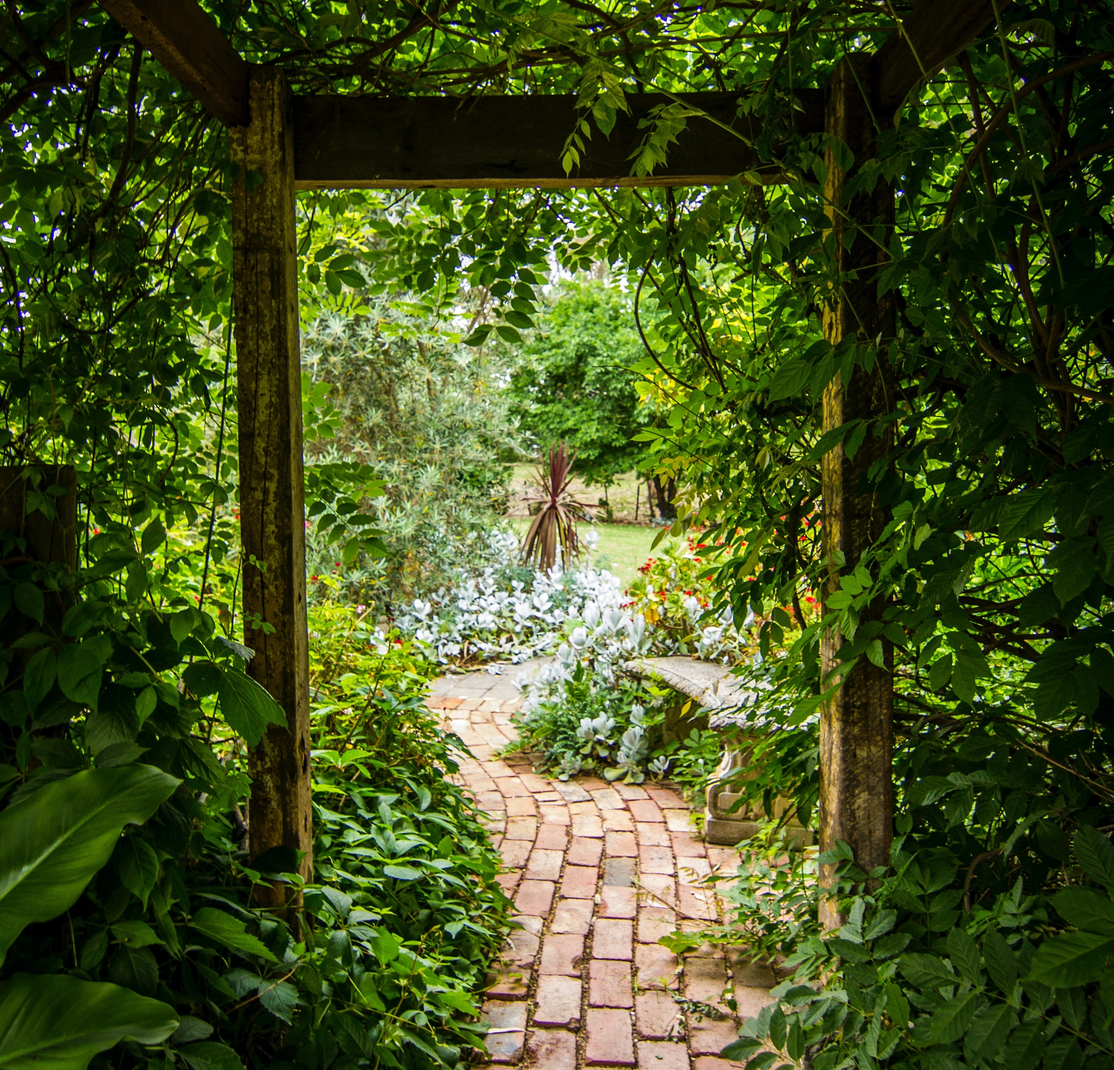
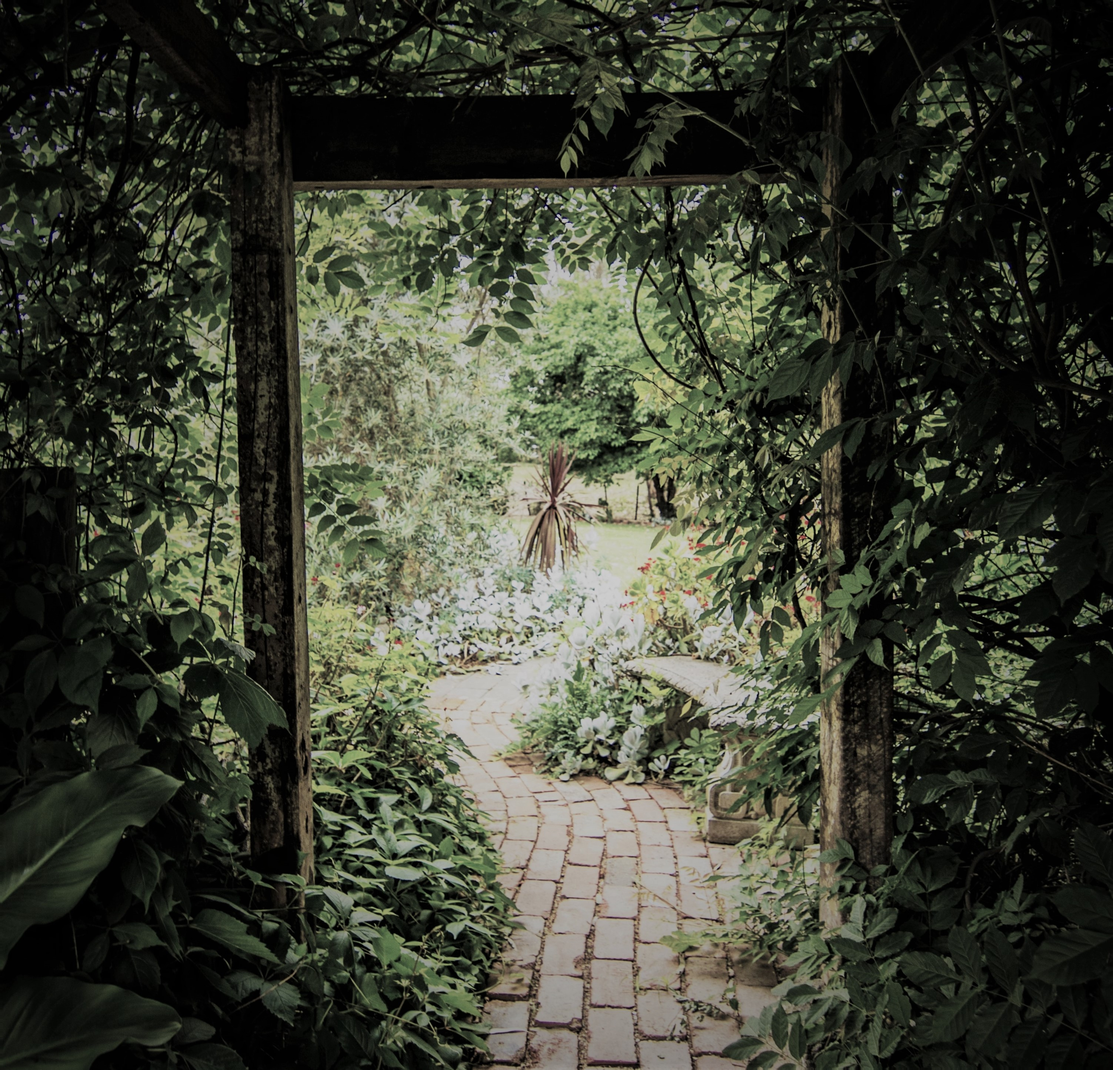
Worked on the mobile view for the site

diff --git a/index.html b/index.html
@@ -6,12 +6,18 @@
     <meta name="viewport" content="width=device-width, initial-scale=1.0" />
     <title>Elite landscaping & Fumigation</title>
     <!-- Linking our font awesome cdn -->
-    <link rel="stylesheet" href="https://cdnjs.cloudflare.com/ajax/libs/font-awesome/6.4.0/css/all.min.css" integrity="sha512-iecdLmaskl7CVkqkXNQ/ZH/XLlvWZOJyj7Yy7tcenmpD1ypASozpmT/E0iPtmFIB46ZmdtAc9eNBvH0H/ZpiBw==" crossorigin="anonymous" referrerpolicy="no-referrer" />
+    <link
+      rel="stylesheet"
+      href="https://cdnjs.cloudflare.com/ajax/libs/font-awesome/6.4.0/css/all.min.css"
+      integrity="sha512-iecdLmaskl7CVkqkXNQ/ZH/XLlvWZOJyj7Yy7tcenmpD1ypASozpmT/E0iPtmFIB46ZmdtAc9eNBvH0H/ZpiBw=="
+      crossorigin="anonymous"
+      referrerpolicy="no-referrer"
+    />
     <!-- Favicon -->
-    <link rel="icon" href="./public/park.png" type="png/image">
+    <link rel="icon" href="./public/park.png" type="png/image" />
     <!-- Linking Our Style sheets -->
-    <link rel="stylesheet" href="css/normalize.css">
-    <link rel="stylesheet" href="css/style.css">
+    <link rel="stylesheet" href="css/normalize.css" />
+    <link rel="stylesheet" href="css/style.css" />
   </head>
   <body>
     <!-- Navigation menu -->
@@ -19,8 +25,8 @@
       <div class="container">
         <!-- Navigation header -->
         <div class="nav-header">
-          <a href="index.html" >
-            <img src="./assets/logo/logo.png" alt="Elite" class="logo">
+          <a href="index.html">
+            <img src="./assets/logo/logo.png" alt="Elite" class="logo" />
           </a>
           <button class="btn nav-btn">
             <i class="fas fa-align-justify"></i>
@@ -46,30 +52,37 @@
           <!-- title -->
           <div class="hero-title">
             <h3>
-              Transforming Spaces, <br>
+              Transforming Spaces, <br />
               <span>Creating Serenity</span>
             </h3>
           </div>
-  
+
           <!-- hero paragraph -->
           <p class="text">
-            At Elite landscaping and fumigation we take pride in delivering diligent and reliable solutions that enhance the beauty and tranquility of your outdoor spaces. From lush gardens to pest-free environments, our team of experts is dedicated to transforming your vision into reality.
+            At Elite landscaping and fumigation we take pride in delivering
+            diligent and reliable solutions that enhance the beauty and
+            tranquility of your outdoor spaces. From lush gardens to pest-free
+            environments, our team of experts is dedicated to transforming your
+            vision into reality.
           </p>
 
           <!-- cta button -->
-          <button class="btn hero-btn">
-            learn more
-          </button>
+          <button class="btn hero-btn">learn more</button>
           <!-- stats -->
           <div class="stats">
             <!-- single stat -->
             <div class="single-stat">
-              <h4>1000
+              <h4>
+                1000
                 <span><i class="fas fa-plus"></i> </span>
               </h4>
               <p class="stat">
                 <span>
-                  <img src="./assets/icons/bonsai.png" alt="bonsai" class="stat-icon img">
+                  <img
+                    src="./assets/icons/bonsai.png"
+                    alt="bonsai"
+                    class="stat-icon img"
+                  />
                 </span>
                 plant species
               </p>
@@ -78,12 +91,17 @@
             <div class="underline"></div>
             <!-- single stat -->
             <div class="single-stat">
-              <h4>1000
+              <h4>
+                1000
                 <span><i class="fas fa-plus"></i> </span>
               </h4>
               <p class="stat">
                 <span>
-                  <img src="./assets/icons/profile.png" alt="profile" class="stat-icon img">
+                  <img
+                    src="./assets/icons/profile.png"
+                    alt="profile"
+                    class="stat-icon img"
+                  />
                 </span>
                 clients
               </p>
@@ -93,24 +111,18 @@
         </article>
         <!-- hero image -->
         <div class="hero-img">
-          <img src="./assets/hero.jpg" alt="hero" class="img">
+          <img src="./assets/hero.jpg" alt="hero" class="img" />
         </div>
         <!-- Overlay div -->
         <div class="overlay"></div>
       </div>
     </section>
     <!-- services section -->
-    <section class="section" id="services">
-
-    </section>
+    <section class="section" id="services"></section>
     <!-- about us section -->
-    <section class="section" id="about">
-
-    </section>
+    <section class="section" id="about"></section>
     <!-- contact us section -->
-    <section class="section" id="contact">
-
-    </section>
+    <section class="section" id="contact"></section>
     <!-- Linking our app.js -->
     <script src="./js/app.js"></script>
   </body>

diff --git a/css/style.css b/css/style.css
@@ -282,6 +282,15 @@ hero section
   padding-top: 3rem;
 }
 
+#hero .container {
+  background: url('../assets/hero.jpg') center/cover no-repeat;
+  color: var(--off-white);
+}
+
+.hero-text {
+  padding: 3rem 0;
+}
+
 article .text,
 article .hero-btn {
   margin: 1.5rem 0;
@@ -293,12 +302,17 @@ article .text {
 
 article .hero-btn {
   width: 100%;
+  background: var(--accent-green);
+  transition: var(--transition);
+}
+
+article .hero-btn:hover {
+  background: var(--light-dark);
 }
 
 .stats {
   display: flex;
   align-items: center;
-  /* justify-content: space-between; */
   gap: 2rem;
 }
 
@@ -318,11 +332,23 @@ article .stat {
   width: 30px;
 }
 
+#hero .hero-img img {
+  display: none;
+}
+
 @media screen and (min-width: 576px) {
 
 }
 
 @media screen and (min-width: 992px) {
+.hero-text {
+  padding: 0;
+}
+
+  #hero .container {
+    background: none;
+    color: var(--dark-clr);
+  }
   section .container {
     display: grid;
     grid-template-columns: 1fr 1fr;
@@ -337,9 +363,10 @@ article .stat {
     margin-left: auto;
   }
 
-  section .hero-img img {
+  #hero .hero-img img {
     width: 300px;
     border-radius: var(--borderRadius);
+    display: block;
   }
 
   section .hero-btn {
